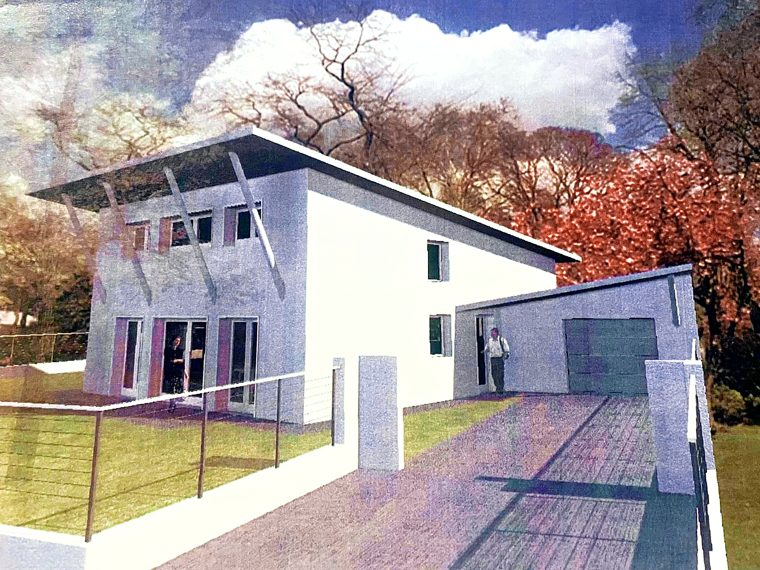
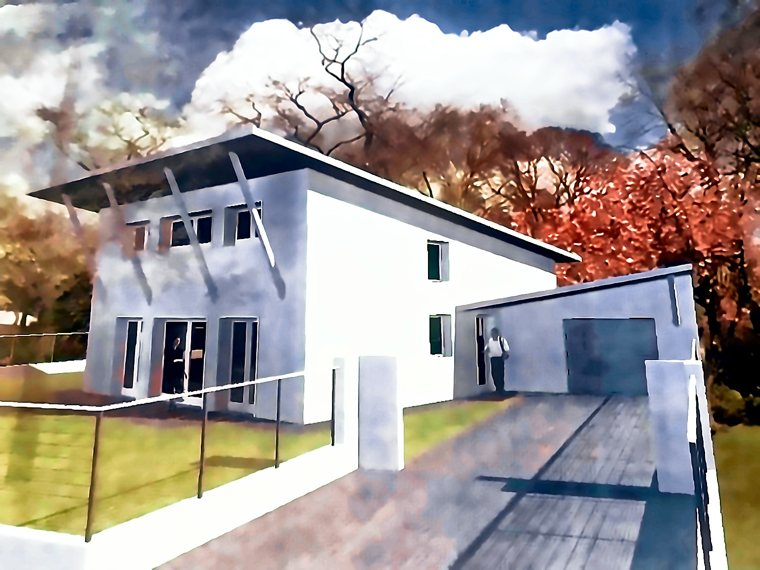
Guy Morice : vues 3D des projets nettoyées et modernisées (grain, magenta, contraste)
Claude-Session: https://claude.ai/code/session_0191xsoxjgtMMmfvh9j8GB2X

diff --git a/maquettes/guy-morice/index.html b/maquettes/guy-morice/index.html
@@ -343,10 +343,10 @@ body.viewing{overflow:hidden}
       <p>Des projets de l'atelier, des premières esquisses à la main jusqu'aux vues 3D. Touchez un projet pour l'ouvrir.</p>
     </div>
     <div class="vitrine" id="vitrine">
-      <button class="proj big rv" type="button" data-p="ga"><span class="pic"><img src="projets/ga-v1.jpg" srcset="projets/ga-v1-s.jpg 760w, projets/ga-v1.jpg 1536w" sizes="(max-width:900px) 100vw, 60vw" width="1600" height="1200" alt="Villa à étage sous un grand toit à une pente, avec balcon filant, terrasse en bois et piscine" loading="lazy" decoding="async"><span class="count">2 vues 3D</span><span class="open">Voir le projet</span></span><span class="cap"><b class="sf">Villa sous grand toit, avec piscine</b><span>Toit sur poteaux, balcon filant</span></span></button>
-      <button class="proj rv" type="button" data-p="gb"><span class="pic"><img src="projets/gb-v1-s.jpg" width="760" height="570" alt="Maison à étage avec lames brise-soleil sur la façade et garage indépendant" loading="lazy" decoding="async"><span class="count">2 vues 3D</span><span class="open">Voir le projet</span></span><span class="cap"><b class="sf">Maison aux brise-soleil</b><span>Garage indépendant</span></span></button>
-      <button class="proj rv" type="button" data-p="gc"><span class="pic"><img src="projets/gc-v1-s.jpg" width="760" height="570" alt="Maison à étage en bardage bois avec balcon filant" loading="lazy" decoding="async"><span class="count">1 vue 3D</span><span class="open">Voir le projet</span></span><span class="cap"><b class="sf">Maison habillée de bois</b><span>Bardage bois</span></span></button>
-      <button class="proj rv" type="button" data-p="gd"><span class="pic"><img src="projets/gd-card-s.jpg" width="760" height="570" alt="Plan de masse du quartier des maisons Bio-Clim à Brax" loading="lazy" decoding="async"><span class="count">1 vue, 1 plan</span><span class="open">Voir le projet</span></span><span class="cap"><b class="sf">Les maisons « Bio-Clim »</b><span>Brax, 25 maisons</span></span></button>
+      <button class="proj big rv" type="button" data-p="ga"><span class="pic"><img src="projets/ga-v1.jpg?v=2" srcset="projets/ga-v1-s.jpg?v=2 760w, projets/ga-v1.jpg?v=2 1536w" sizes="(max-width:900px) 100vw, 60vw" width="1600" height="1200" alt="Villa à étage sous un grand toit à une pente, avec balcon filant, terrasse en bois et piscine" loading="lazy" decoding="async"><span class="count">2 vues 3D</span><span class="open">Voir le projet</span></span><span class="cap"><b class="sf">Villa sous grand toit, avec piscine</b><span>Toit sur poteaux, balcon filant</span></span></button>
+      <button class="proj rv" type="button" data-p="gb"><span class="pic"><img src="projets/gb-v1-s.jpg?v=2" width="760" height="570" alt="Maison à étage avec lames brise-soleil sur la façade et garage indépendant" loading="lazy" decoding="async"><span class="count">2 vues 3D</span><span class="open">Voir le projet</span></span><span class="cap"><b class="sf">Maison aux brise-soleil</b><span>Garage indépendant</span></span></button>
+      <button class="proj rv" type="button" data-p="gc"><span class="pic"><img src="projets/gc-v1-s.jpg?v=2" width="760" height="570" alt="Maison à étage en bardage bois avec balcon filant" loading="lazy" decoding="async"><span class="count">1 vue 3D</span><span class="open">Voir le projet</span></span><span class="cap"><b class="sf">Maison habillée de bois</b><span>Bardage bois</span></span></button>
+      <button class="proj rv" type="button" data-p="gd"><span class="pic"><img src="projets/gd-card-s.jpg?v=2" width="760" height="570" alt="Plan de masse du quartier des maisons Bio-Clim à Brax" loading="lazy" decoding="async"><span class="count">1 vue, 1 plan</span><span class="open">Voir le projet</span></span><span class="cap"><b class="sf">Les maisons « Bio-Clim »</b><span>Brax, 25 maisons</span></span></button>
       <button class="proj rv" type="button" data-p="ge"><span class="pic"><img src="projets/ge-v1-s.jpg" width="760" height="570" alt="Esquisse à la main d'une maison bioclimatique sous grande toiture de tuiles" loading="lazy" decoding="async"><span class="count">2 esquisses, 3 façades</span><span class="open">Voir le projet</span></span><span class="cap"><b class="sf">Maison bioclimatique</b><span>Esquisses à la main</span></span></button>
       <button class="proj rv" type="button" data-p="gf"><span class="pic"><img src="projets/gf-v1-s.jpg" width="760" height="570" alt="Esquisse à la main d'une maison longue en bardage bois sous tuiles romanes" loading="lazy" decoding="async"><span class="count">2 esquisses</span><span class="open">Voir le projet</span></span><span class="cap"><b class="sf">Maisons en bardage bois</b><span>Esquisses à la main</span></span></button>
       <a class="cta rv" href="#contact"><b class="sf">Et votre projet ?</b><span>Maison neuve, extension ou rénovation : un premier échange suffit pour savoir comment le mener.</span><i>Prendre rendez-vous</i></a>

diff --git a/maquettes/guy-morice/morice.js b/maquettes/guy-morice/morice.js
@@ -102,12 +102,12 @@ if ('IntersectionObserver' in window) {
   function names() { return set === 'v' ? cur.vn : cur.pn; }
   function show(i) {
     var L = list(); idx = (i + L.length) % L.length;
-    var src = L[idx] + '.jpg';
+    var src = L[idx] + '.jpg?v=2';
     img.classList.remove('on');
     var pre = new Image();
     pre.onload = function () { img.src = src; img.alt = cur.t + ', ' + names()[idx]; requestAnimationFrame(function () { img.classList.add('on'); }); };
     pre.src = src;
-    if (L.length > 1) { var nx = new Image(); nx.src = L[(idx + 1) % L.length] + '.jpg'; }
+    if (L.length > 1) { var nx = new Image(); nx.src = L[(idx + 1) % L.length] + '.jpg?v=2'; }
     num.textContent = names()[idx] + '  ' + (idx + 1) + ' / ' + L.length;
     full.href = src;
     stage.classList.toggle('plan', set === 'p' || !!cur.light);
@@ -120,7 +120,7 @@ if ('IntersectionObserver' in window) {
     thumbs.innerHTML = '';
     list().forEach(function (b, k) {
       var t = document.createElement('button'); t.type = 'button'; t.setAttribute('aria-label', names()[k]);
-      t.innerHTML = '<img src="' + b + '-s.jpg" alt="" loading="lazy">';
+      t.innerHTML = '<img src="' + b + '-s.jpg?v=2" alt="" loading="lazy">';
       t.addEventListener('click', function () { show(k); });
       thumbs.appendChild(t);
     });
